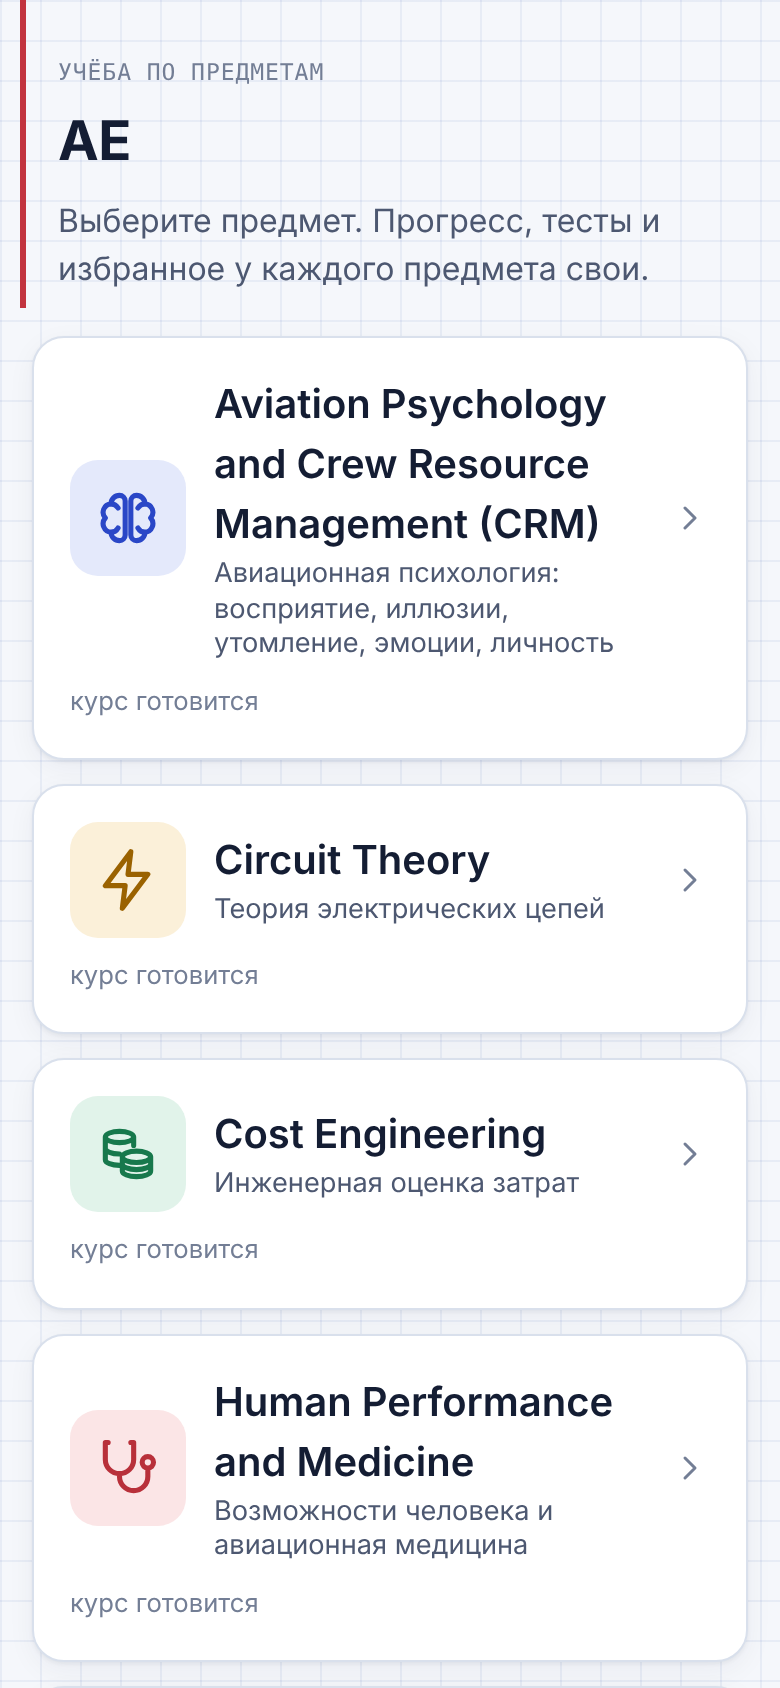
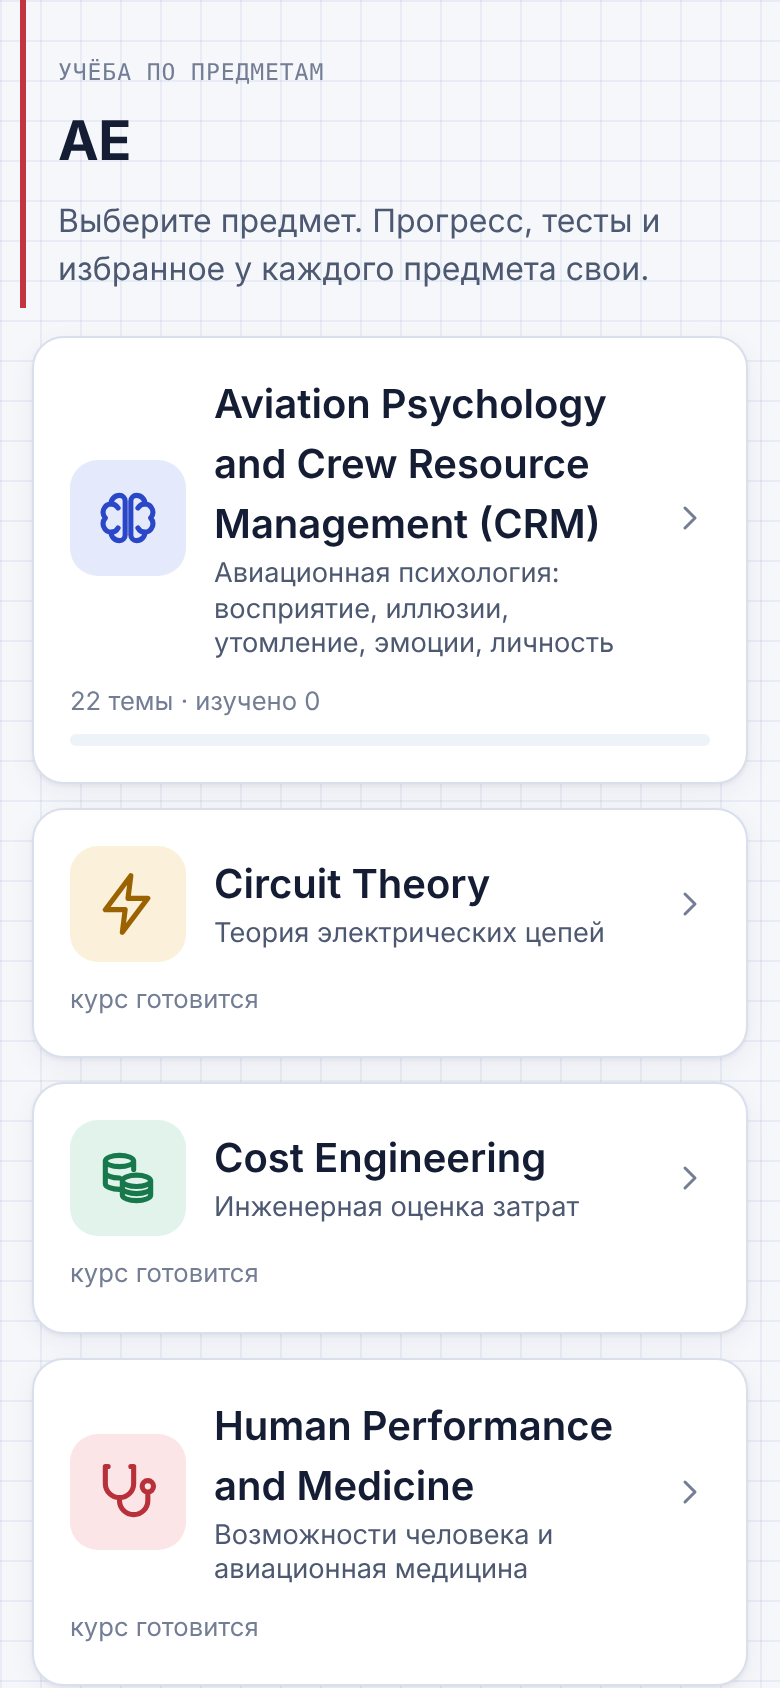
Документы и скриншоты: CRM утверждён и опубликован
Claude-Session: https://claude.ai/code/session_01NpwKsBp3EYgLS6NqNnXAV4

diff --git a/docs/08-known-limitations.md b/docs/08-known-limitations.md
@@ -1,6 +1,6 @@
 # Известные ограничения
 
-- **Наполнение.** CRM наполнен по лекциям 1–8 (темы 9–14 ждут материалов); все его записи на проверке, поэтому в версии для студентов (сайт, магазины) CRM пока показывается как «курс готовится». Остальные шесть предметов пустые.
+- **Наполнение.** CRM наполнен по лекциям 1–8 (темы 9–14 ждут материалов); все его записи утверждены владельцем 31.10.2026 и есть на сайте. Остальные шесть предметов пустые.
 - **Стиль предметов.** Сейчас у всех предметов `style: notes` (материалы по страницам файлов). Если основой предмета окажется учебник с оглавлением, стиль меняется на `book` в `content/subjects.json` — до появления материалов, иначе придётся перепроверить записи.
 - **Android и iOS.** Идентификатор `uz.husniddin.ae`, значок и скрипт сборки подготовлены, но AE ещё не собирался на телефоне и не опубликован в магазинах.
 - **GitHub Pages.** Сайт собирается автоматически, но включить Pages (Settings → Pages → Source: GitHub Actions) и задать описание репозитория может только владелец.

diff --git a/docs/subjects/crm.md b/docs/subjects/crm.md
@@ -10,7 +10,7 @@
 | Префикс ID тем и записей | `crm-` |
 | Исходники | `content/subjects/crm/src/*.yaml` |
 | Стиль | `notes` — материалы по страницам (слайдам) файлов |
-| Статус | темы 1–8 из 14 наполнены по лекциям; все записи на проверке у владельца |
+| Статус | темы 1–8 из 14 наполнены по лекциям; все 236 записей утверждены владельцем 31.10.2026 и опубликованы на сайте |
 
 ## Полученные материалы
 
@@ -63,3 +63,4 @@
 
 - 30.10.2026 — предмет создан пустым в приложении AE (карточка на стартовом экране, «курс готовится»).
 - 31.10.2026 — получены 8 лекций (темы 1–8 из 14); наполнены 22 темы; все записи на проверке.
+- 31.10.2026 — владелец утвердил все 236 записей (резервная копия админ-панели `content/release/overlays/crm-backup-2026-10-31.json`); релизная база пересобрана, CRM опубликован на сайте. Решения по замечаниям crm-e01…e06 ещё не приняты (студенты видят исправленные тексты по e01–e03).

diff --git a/docs/subjects/README.md b/docs/subjects/README.md
@@ -5,7 +5,7 @@
 
 | | Предмет | id | Адрес и префикс ID | Стиль | Статус | Документы |
 |---|---|---|---|---|---|---|
-| 🧠 | Aviation Psychology and Crew Resource Management (CRM) | `crm` | `#/crm` · ID `crm-…` | notes | темы 1–8 из 14 (22 темы, 136 вопросов), на проверке | [журнал](crm.md) · [отчёт](crm-report.md) |
+| 🧠 | Aviation Psychology and Crew Resource Management (CRM) | `crm` | `#/crm` · ID `crm-…` | notes | темы 1–8 из 14 (22 темы, 136 вопросов), утверждено и опубликовано | [журнал](crm.md) · [отчёт](crm-report.md) |
 | ⚡ | Circuit Theory | `circuits` | `#/ct` · ID `ct-…` | notes | курс готовится | [журнал](circuits.md) · [отчёт](circuits-report.md) |
 | 💰 | Cost Engineering | `cost` | `#/ce` · ID `ce-…` | notes | курс готовится | [журнал](cost.md) · [отчёт](cost-report.md) |
 | 🩺 | Human Performance and Medicine | `hpm` | `#/hpm` · ID `hpm-…` | notes | курс готовится | [журнал](hpm.md) · [отчёт](hpm-report.md) |
